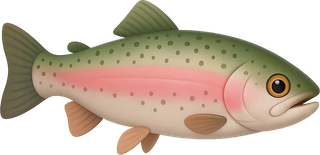
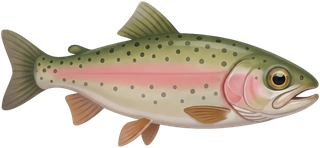
Нова рибка (assets/fish.webp, 640 px) у порожніх станах і сторіс
Claude-Session: https://claude.ai/code/session_01BzNdAS1A7zEsJHcFFpmPbm

diff --git a/assets/app.js b/assets/app.js
@@ -967,7 +967,7 @@
   // data-act="back" обробляють і картка, і статистика (goList), тож вийти можна завжди.
   function emptyState(title, text) {
     return '<div class="pc-sheet empty-sheet"><div class="card empty empty-state" role="status">' +
-      '<img class="empty-state__fish" src="assets/fish.webp" alt="" width="320" height="155" decoding="async">' +
+      '<img class="empty-state__fish" src="assets/fish.webp?v=2" alt="" width="640" height="296" decoding="async">' +
       '<strong>' + esc(title) + '</strong><span>' + esc(text) + '</span>' +
       '<button type="button" class="btn btn-primary empty-state__btn" data-act="back">На головну</button></div></div>';
   }
@@ -2748,7 +2748,7 @@
       loadImg('assets/logo.svg?v=3'),
       // для картинки — фото у більшій якості (assets/players/lg), якщо його немає — звичайне
       loadImg(photo ? 'assets/players/lg/' + encodeURIComponent(photo) + '?v=' + PHOTO_V : null).then(function (im) { return im || loadImg(photo ? 'assets/players/' + encodeURIComponent(photo) + '?v=' + PHOTO_V : null); }),
-      loadImg('assets/fish.webp'),
+      loadImg('assets/fish.webp?v=2'),
       document.fonts && document.fonts.load ? Promise.all([document.fonts.load('700 80px Fixel'), document.fonts.load('500 30px Fixel')]).catch(function () {}) : null
     ]).then(function (r) {
       var logo = r[0], face = r[1], fish = r[2];

diff --git a/index.html b/index.html
@@ -26,9 +26,9 @@
   <link rel="preconnect" href="https://script.google.com" crossorigin>
   <link rel="preconnect" href="https://script.googleusercontent.com" crossorigin>
   <link rel="preload" href="assets/fonts/fixel-cyrillic-var.woff2" as="font" type="font/woff2" crossorigin>
-  <link rel="preload" href="assets/fish.webp" as="image" type="image/webp">
-  <link rel="stylesheet" href="assets/style.css?v=20261109f">
-  <script src="config.js?v=20261109f"></script>
+  <link rel="preload" href="assets/fish.webp?v=2" as="image" type="image/webp">
+  <link rel="stylesheet" href="assets/style.css?v=20261109g">
+  <script src="config.js?v=20261109g"></script>
   <script>
     // Запитуємо результати одразу, паралельно з завантаженням решти сторінки
     (function () {
@@ -44,8 +44,8 @@
     // Посилання на картку (…/#p9, startapp=p9): з першого кадру ховаємо головну, щоб не блимав список до картки
     if (/(?:tgWebAppStartParam=|#)p\d+(?:&|$)/.test(location.hash + '&' + location.search.slice(1))) document.documentElement.className += ' view-card deep-wait';
   </script>
-  <script src="assets/i18n.js?v=20261109f"></script>
-  <script src="assets/app.js?v=20261109f" defer></script>
+  <script src="assets/i18n.js?v=20261109g"></script>
+  <script src="assets/app.js?v=20261109g" defer></script>
 </head>
 <body>
   <header class="topbar">

diff --git a/assets/style.css b/assets/style.css
@@ -2319,8 +2319,8 @@ input, textarea, select { caret-color: var(--nav); }
 .empty-sheet { margin-top: 8px; }
 @media (max-width: 979px) { .empty-sheet { min-height: calc(100vh - 60px); min-height: calc(100dvh - 60px); } }
 .empty-state { margin: 0; border-radius: var(--r-card, 20px); }
-.empty-state__fish { width: 132px; height: auto; margin-bottom: 10px; opacity: 0.95; }
+.empty-state__fish { width: 168px; height: auto; margin-bottom: 10px; opacity: 0.95; }
 .empty-state strong { font-size: 18px; font-weight: 750; color: var(--text); margin: 0; }
 .empty-state span { max-width: 340px; font-size: 14px; line-height: 1.45; color: var(--muted); }
 .empty-state__btn.btn { margin-top: 16px; width: auto; min-width: 200px; flex: none; padding-left: 28px; padding-right: 28px; }
-@media (min-width: 980px) { .empty-sheet { margin-top: 32px; } .empty-state { padding: 56px 24px 44px; } .empty-state__fish { width: 160px; } }
+@media (min-width: 980px) { .empty-sheet { margin-top: 32px; } .empty-state { padding: 56px 24px 44px; } .empty-state__fish { width: 200px; } }

diff --git a/src/css/98-empty-logo.css b/src/css/98-empty-logo.css
@@ -10,8 +10,8 @@
 .empty-sheet { margin-top: 8px; }
 @media (max-width: 979px) { .empty-sheet { min-height: calc(100vh - 60px); min-height: calc(100dvh - 60px); } }
 .empty-state { margin: 0; border-radius: var(--r-card, 20px); }
-.empty-state__fish { width: 132px; height: auto; margin-bottom: 10px; opacity: 0.95; }
+.empty-state__fish { width: 168px; height: auto; margin-bottom: 10px; opacity: 0.95; }
 .empty-state strong { font-size: 18px; font-weight: 750; color: var(--text); margin: 0; }
 .empty-state span { max-width: 340px; font-size: 14px; line-height: 1.45; color: var(--muted); }
 .empty-state__btn.btn { margin-top: 16px; width: auto; min-width: 200px; flex: none; padding-left: 28px; padding-right: 28px; }
-@media (min-width: 980px) { .empty-sheet { margin-top: 32px; } .empty-state { padding: 56px 24px 44px; } .empty-state__fish { width: 160px; } }
+@media (min-width: 980px) { .empty-sheet { margin-top: 32px; } .empty-state { padding: 56px 24px 44px; } .empty-state__fish { width: 200px; } }

diff --git a/src/js/90-v2-photos-story.js b/src/js/90-v2-photos-story.js
@@ -169,7 +169,7 @@
       loadImg('assets/logo.svg?v=3'),
       // для картинки — фото у більшій якості (assets/players/lg), якщо його немає — звичайне
       loadImg(photo ? 'assets/players/lg/' + encodeURIComponent(photo) + '?v=' + PHOTO_V : null).then(function (im) { return im || loadImg(photo ? 'assets/players/' + encodeURIComponent(photo) + '?v=' + PHOTO_V : null); }),
-      loadImg('assets/fish.webp'),
+      loadImg('assets/fish.webp?v=2'),
       document.fonts && document.fonts.load ? Promise.all([document.fonts.load('700 80px Fixel'), document.fonts.load('500 30px Fixel')]).catch(function () {}) : null
     ]).then(function (r) {
       var logo = r[0], face = r[1], fish = r[2];

diff --git a/src/js/56-card-render.js b/src/js/56-card-render.js
@@ -12,7 +12,7 @@
   // data-act="back" обробляють і картка, і статистика (goList), тож вийти можна завжди.
   function emptyState(title, text) {
     return '<div class="pc-sheet empty-sheet"><div class="card empty empty-state" role="status">' +
-      '<img class="empty-state__fish" src="assets/fish.webp" alt="" width="320" height="155" decoding="async">' +
+      '<img class="empty-state__fish" src="assets/fish.webp?v=2" alt="" width="640" height="296" decoding="async">' +
       '<strong>' + esc(title) + '</strong><span>' + esc(text) + '</span>' +
       '<button type="button" class="btn btn-primary empty-state__btn" data-act="back">На головну</button></div></div>';
   }
